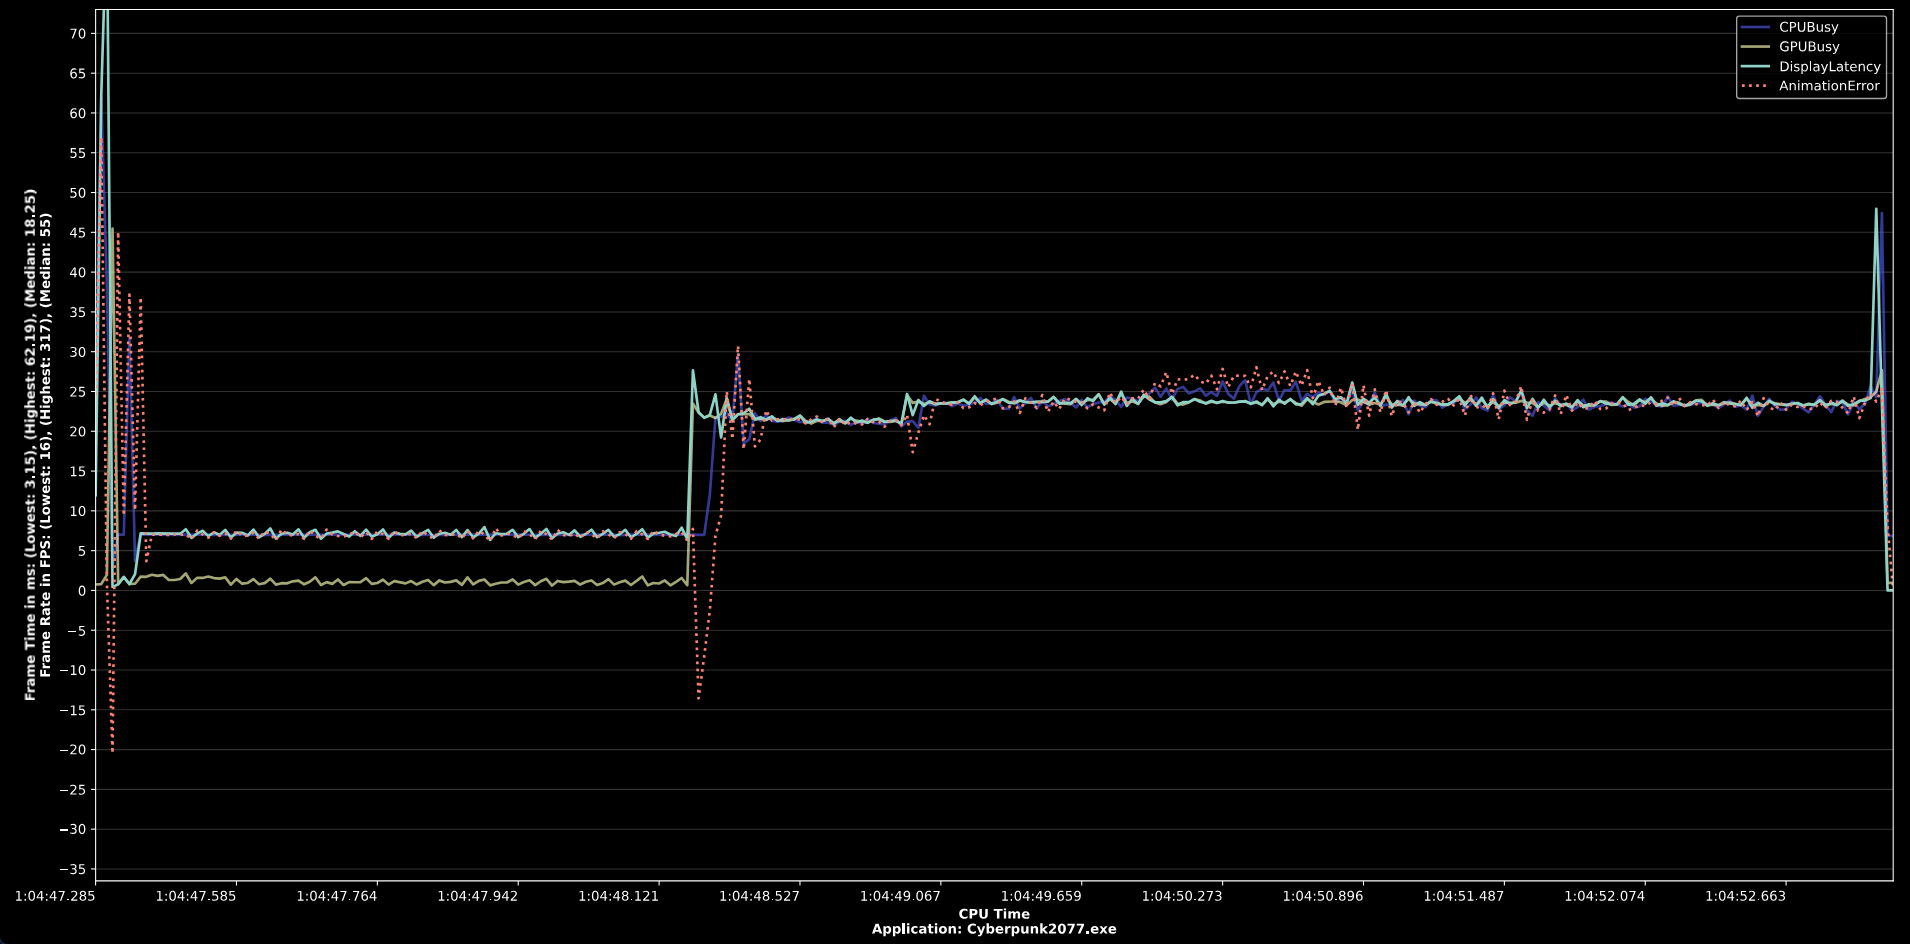
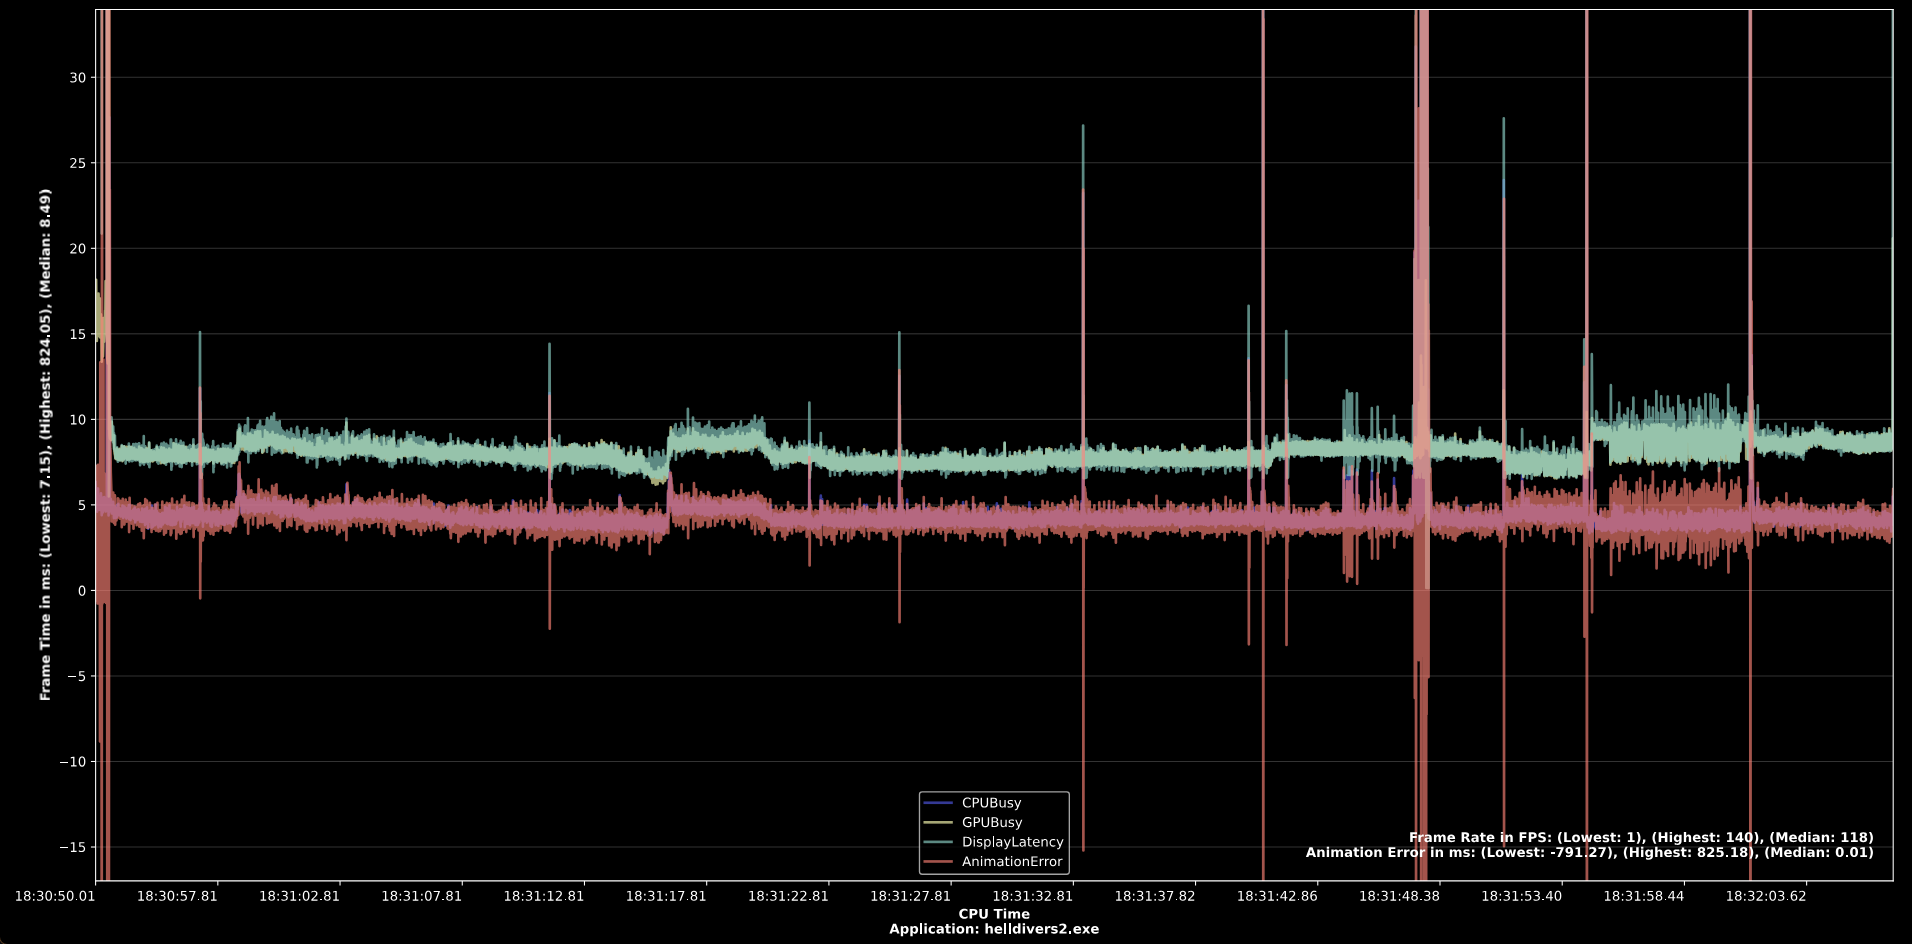
Updated PresentMon, changed some visualizations and edited the code structure a little

diff --git a/Scripts/Windows/PresentMon/CSV_Graph_plotting/PresentMon_Graph.py b/Scripts/Windows/PresentMon/CSV_Graph_plotting/PresentMon_Graph.py
@@ -38,55 +38,52 @@ def graph_plotting(csvFile):
                     data[column].append(row[i])
 
             #Calculate FrameTime Median and convert Values to float
-            #Offsetting by -1 to be in line with AnimationError
             FrameTime_median = 0
             headerIndex = headers.index("MsBetweenAppStart")
             for i in range(len(data[headers[headerIndex]])):
-                data[headers[headerIndex]][i-1] = float(data[headers[headerIndex]][i])
-                FrameTime_median += data[headers[headerIndex]][i-1]
+                data[headers[headerIndex]][i] = float(data[headers[headerIndex]][i])
+                FrameTime_median += data[headers[headerIndex]][i]
             FrameTime_median /= len(data[headers[headerIndex]])
-
-            #Define FrameTime, conversion already done above
             FrameTime = data[headers[headerIndex]]
 
             #Define DisplayLatency and convert Values to float. MsBetweenDisplayChange can be NaN in some cases.
-            #Offsetting by -1 to be in line with AnimationError
             headerIndex = headers.index("MsBetweenDisplayChange")
             for i in range(len(data[headers[headerIndex]])):
                 if data[headers[headerIndex]][i] == 'NA':
-                    data[headers[headerIndex]][i-1] = float(0)
+                    data[headers[headerIndex]][i] = float(0)
                 else:
-                    data[headers[headerIndex]][i-1] = float(data[headers[headerIndex]][i])
+                    data[headers[headerIndex]][i] = float(data[headers[headerIndex]][i])
             MsBetweenDisplayChange = data[headers[headerIndex]]
 
             #Define MsCPUBusy and convert Values to float
-            #Offsetting by -1 to be in line with AnimationError
             headerIndex = headers.index("MsCPUBusy")
             for i in range(len(data[headers[headerIndex]])):
-                data[headers[headerIndex]][i-1] = float(data[headers[headerIndex]][i])
+                data[headers[headerIndex]][i] = float(data[headers[headerIndex]][i])
             MsCPUBusy = data[headers[headerIndex]]
 
             #Define MsGPUBusy and convert Values to float
-            #Offsetting by -1 to be in line with AnimationError
             headerIndex = headers.index("MsGPUBusy")
             for i in range(len(data[headers[headerIndex]])):
-                data[headers[headerIndex]][i-1] = float(data[headers[headerIndex]][i])
+                data[headers[headerIndex]][i] = float(data[headers[headerIndex]][i])
             MsGPUBusy = data[headers[headerIndex]]
 
             #Define Time
-            #Offsetting by -1 to be in line with AnimationError
             headerIndex = headers.index("CPUStartDateTime")
             for i in range(len(data[headers[headerIndex]])):
-                data[headers[headerIndex]][i-1] = ((data[headers[headerIndex]][i])[11:][:11])
+                data[headers[headerIndex]][i] = ((data[headers[headerIndex]][i])[11:][:11])
             times = data[headers[headerIndex]]
 
-            #Define MsAnimationError
+            #Define MsAnimationError ground thruth value at 0 point and median
+            AnimationError_median = 0
             headerIndex = headers.index("MsAnimationError")
             for i in range(len(data[headers[headerIndex]])):
-                data[headers[headerIndex]][i] = float(data[headers[headerIndex]][i]) + MsCPUBusy[i] # Overlay on top of CPU
+                AnimationError_median += float(data[headers[headerIndex]][i])
+                data[headers[headerIndex]][i-1] = float(data[headers[headerIndex]][i])
+            AnimationError_median /= len(data[headers[headerIndex]])
             MsAnimationError = data[headers[headerIndex]]
 
 
+            #FrameTime highest and lowest
             FTh = 0
             FTl = 255
             for i in FrameTime:
@@ -95,9 +92,29 @@ def graph_plotting(csvFile):
                 if i < FTl:
                     FTl = i
 
+            # AnimationError highest and lowest
+            AEh = 0
+            AEl = 255
+            for i in MsAnimationError:
+                if i > AEh:
+                    AEh = i
+                if i < AEl:
+                    AEl = i
+
+            # Overlay Animation Error on top of CPU
+            # We do this here to not scew the high, low and median caluclation
+            headerIndex = headers.index("MsAnimationError")
+            for i in range(len(data[headers[headerIndex]])):
+                data[headers[headerIndex]][i-1] += MsCPUBusy[i-1]
+            MsAnimationError = data[headers[headerIndex]]
+
         FTh = round(FTh,2)
         FTl = round(FTl,2)
         FrameTime_median = round(FrameTime_median,2)
+
+        AEh = round(AEh,2)
+        AEl = round(AEl,2)
+        AnimationError_median = round(AnimationError_median,2)
 
         #Visualization of the Graph
         plt.style.use("dark_background")
@@ -108,7 +125,7 @@ def graph_plotting(csvFile):
         figure = plt.figure()
         ax = figure.add_subplot()
         #ax.set_ylim([-50, 100])
-        ax.set_ylim([-FrameTime_median * 2, FrameTime_median * 4]) #Auto scale to average frametime, the above is for static y limit
+        ax.set_ylim([-FrameTime_median * 1.5, FrameTime_median * 3]) #Auto scale to average frametime, the above is for static y limit
         ax.yaxis.set_major_locator(ticker.MultipleLocator(5))
         ax.margins(0.0)
         ax.grid(visible=True, which="both", axis="y")
@@ -116,20 +133,22 @@ def graph_plotting(csvFile):
         figure.subplots_adjust(0.05, 0.05, 0.99, 0.99, 0.1, 0.1)
         ax.xaxis.set_major_locator(locator=ticker.MaxNLocator(nbins=15))
         figure.autofmt_xdate(rotation='horizontal', bottom=0.075)
+        plt.figtext(0.98, 0.1,
+                    f'Frame Rate in FPS: (Lowest: {round(1000/FTh)}), (Highest: {round(1000/FTl)}), (Median: {round(1000/FrameTime_median)})' +
+                    f'\nAnimation Error in ms: (Lowest: {AEl}), (Highest: {AEh}), (Median: {AnimationError_median})', weight='bold', ha='right')
         #ax.plot(times, list(zip(MsBetweenDisplayChange, MsCPUBusy, MsGPUBusy, MsAnimationError)), label=['DisplayLatency', 'CPUBusy', 'GPUBusy', 'AnimationError'])
 
         plot_data = [MsCPUBusy, MsGPUBusy, MsBetweenDisplayChange, MsAnimationError]
         labels =    ['CPUBusy', 'GPUBusy', 'DisplayLatency', 'AnimationError']
-        alphas =    [0.65, 0.65, 1, 1]
+        alphas =    [0.65, 0.65, 0.65, 0.65]
         colors =    ['#5057E4', '#FEFFB3', '#8DD3C7', '#FA8174']
-        linestyles = ['-', '-', '-', ':']
-        for i in range(4):
+        linestyles = ['-', '-', '-', '-']
+        for i in range(len(plot_data)):
             ax.plot(times, plot_data[i], color=colors[i], alpha=alphas[i], linestyle=linestyles[i], label=labels[i])
 
         ax.legend()
-        plt.xlabel('CPU Time\n' + 'Application: ' + str(data[headers[0]][1]) + '', weight='bold')
-        plt.ylabel(f'Frame Time in ms: (Lowest: {FTl}), (Highest: {FTh}), (Median: {FrameTime_median})' +
-                   f'\nFrame Rate in FPS: (Lowest: {round(1000/FTh)}), (Highest: {round(1000/FTl)}), (Median: {round(1000/FrameTime_median)})', weight='bold')
+        plt.xlabel('CPU Time\n' + 'Application: ' + str(data[headers[0]][1]), weight='bold')
+        plt.ylabel(f'Frame Time in ms: (Lowest: {FTl}), (Highest: {FTh}), (Median: {FrameTime_median})', weight='bold')
 
         plt.savefig((outPath))
         plt.close(figure)

diff --git a/Scripts/Windows/PresentMon/CSV_Graph_plotting/Readme.md b/Scripts/Windows/PresentMon/CSV_Graph_plotting/Readme.md
@@ -1,15 +1,23 @@
 # CSV Graph plotting
 With this Python Script you can plot a Graph of your PresentMon CSV Output
+<br>
 This script is multiprocessed so it will look at a given folder and check any csv inside the source folder has already been plotted and if not then it will simultaneously plot svg's for all of the csv files at the same time.
-The script does some conversion to overlay recorded Animation Error on top of the plot to visualize Animation Error better.
+
+The script does some conversion to overlay Animation Error data on top of the plotted CPUBusy data to visualize Animation Error better and more compact.
+<br>
+**Animation Error in this graph works by looking at the divergence of CPUBusy and the Animation Error value**, the Animation Error value should either over or undershoot slightly for every record, this indicates a Display and or CPU delta on that recorded frame aka. a Animation Error, in an ideal world the Animation Error line should exactly match the CPUBusy line aka. no animation Error present at all.
+<br>
+Keep in mind that overlaying the Animation Error data on top of the CPUBusy data will slightly scew the Animation Error data visualized inside the graph, you can look at the Lowest/Highest/Median values to get a summarized ground thuth of the values or comment out the block inside the script for it to visualize Animation Error on the 0 point.
 
 Usecases are:
 - visualizing various aspects of your game performance caption
 
 You will need to download the PresentMon Application from [this](https://github.com/GameTechDev/PresentMon) Github repository to make use of this script here.
 
-Python 3+ is required, then run the script in powershell or cmd like `python C:\folder\PresentMon_Graph.py` given that you have csv files from PresentMon captured with version 2.3.1 or newer in that directory.
+Python 3+ is required, then run the script in powershell or cmd like `python C:\folder\PresentMon_Graph.py` given that you have csv files from PresentMon captured with version 2.3.1 or newer in the directory where your csv files are saved in.
 
 ## Before you begin
-You should change the `Input_filePath` and `Output_filePath` Variables inside the script to define the Input and Output Paths of your files.
+Regardless of anything, first you should change the `Input_filePath` and `Output_filePath` Variables inside the script to define the Input and Output Paths of your files.
+
+
 Another requirement is that you execute the PresentMon application with the `--date_time` Parameter so that the csv Column `CPUStartDateTime` is populated with Date and Time values, the script does some conversion on that Column to calculate the Time axis correctly, if you don't do this then you may get wrong data outputs or even errors, also keep in mind that this is CPU-Time, not the time as on your clock or watch, PresentMon does not offer nor should it offer that. But if you'd like you can just use the Quick_Launcher option that i provide in this Github repo which will take care of that for you.
